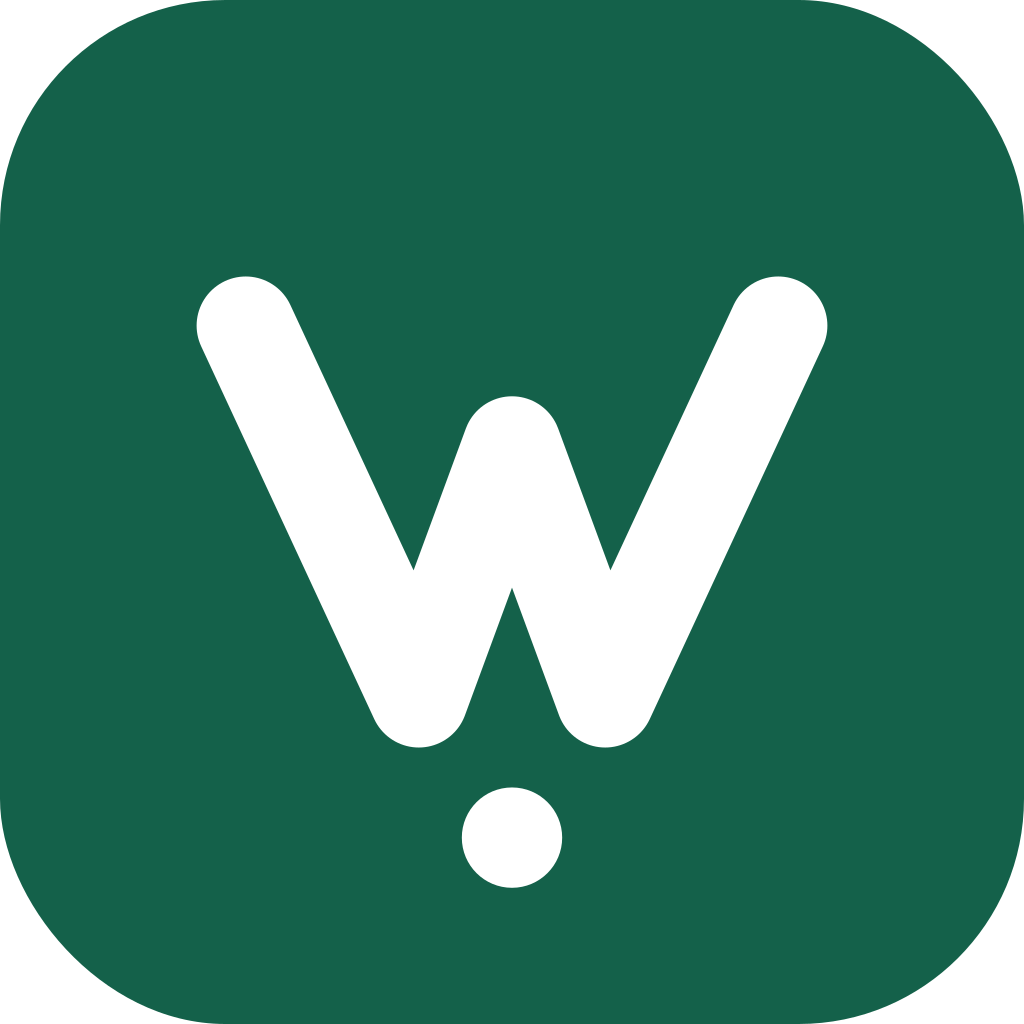
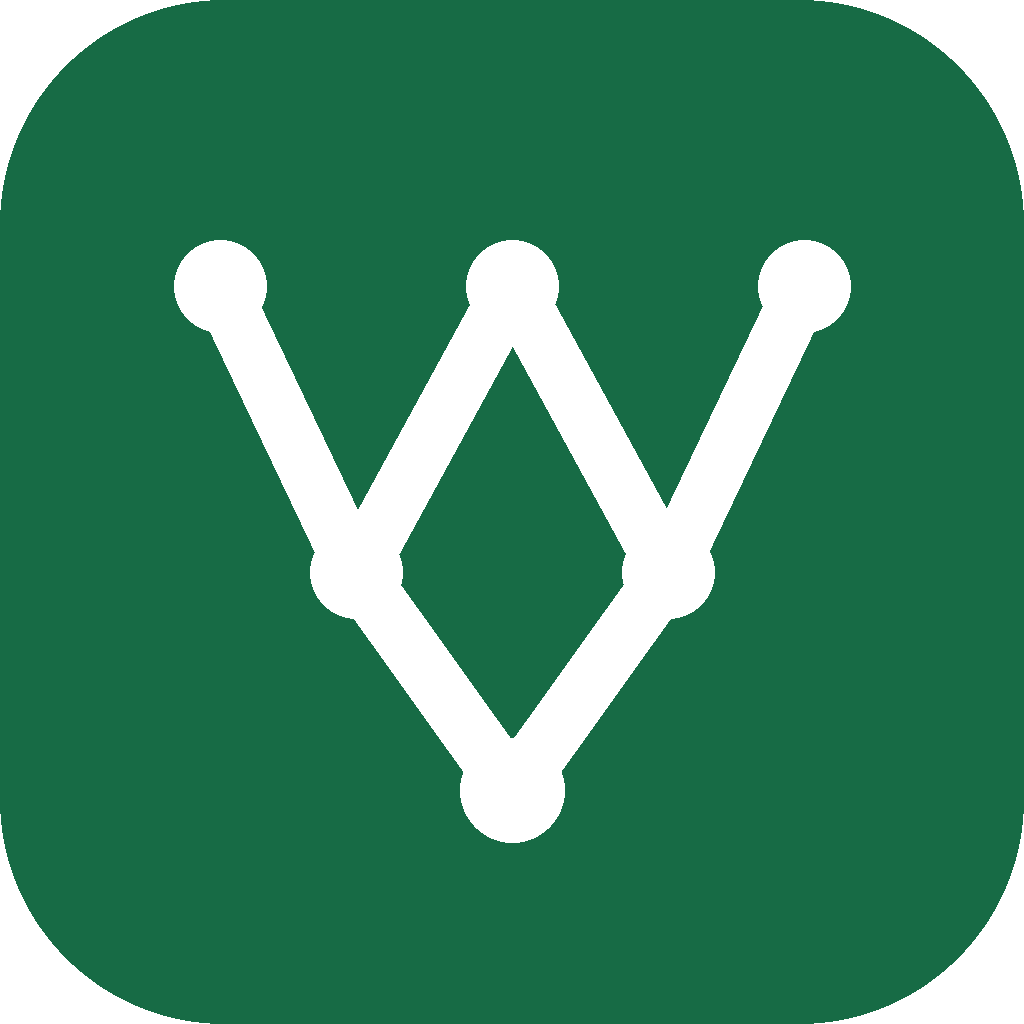
Remake the Rootwork identity and opening

diff --git a/styles.css b/styles.css
@@ -64,8 +64,11 @@ svg { display: block; flex: none; }
 @keyframes toast-in { from { opacity: 0; transform: translate(-50%, 8px); } to { opacity: 1; transform: translate(-50%, 0); } }
 @keyframes check-pop { 0% { transform: scale(.78); } 62% { transform: scale(1.12); } 100% { transform: scale(1); } }
 @keyframes xp-sweep { from { transform: translateX(-120%); } to { transform: translateX(360%); } }
-@keyframes launch-mark-in { from { opacity: 0; transform: scale(.82); } to { opacity: 1; transform: scale(1); } }
-@keyframes launch-name-in { from { opacity: 0; transform: translateY(8px); letter-spacing: .8px; } to { opacity: 1; transform: none; letter-spacing: -.7px; } }
+@keyframes launch-line-draw { from { stroke-dashoffset: 1; } to { stroke-dashoffset: 0; } }
+@keyframes launch-node-in { 0% { opacity: 0; transform: scale(.25); } 70% { opacity: 1; transform: scale(1.12); } 100% { opacity: 1; transform: scale(1); } }
+@keyframes launch-pulse { 0% { opacity: 0; transform: scale(.72); } 35% { opacity: .55; } 100% { opacity: 0; transform: scale(1.18); } }
+@keyframes launch-word-in { from { opacity: 0; transform: translateY(7px); letter-spacing: .4px; } to { opacity: 1; transform: none; letter-spacing: -.75px; } }
+@keyframes launch-subtitle-in { from { opacity: 0; transform: translateY(5px); } to { opacity: 1; transform: none; } }
 
 .app-shell {
   width: min(720px, 100%);
@@ -86,18 +89,66 @@ svg { display: block; flex: none; }
   z-index: 220;
   inset: 0;
   min-height: 100dvh;
-  background: #fff;
+  background: rgba(255, 255, 255, 1);
   display: grid;
   place-items: center;
   overflow: hidden;
-  transform: translateY(0);
-  transition: transform .6s cubic-bezier(.76, 0, .24, 1);
+  opacity: 1;
+  backdrop-filter: blur(12px);
+  -webkit-backdrop-filter: blur(12px);
+  transition: opacity .5s var(--ease), background-color .5s var(--ease), backdrop-filter .5s var(--ease);
 }
-.launch-lockup { display: grid; justify-items: center; gap: 13px; transition: opacity .28s ease, transform .4s var(--ease); }
-.launch-mark { width: 66px; height: 66px; border-radius: 17px; animation: launch-mark-in .42s var(--ease) both; }
-.launch-lockup strong { color: var(--green); font-size: 25px; line-height: 1; letter-spacing: -.7px; animation: launch-name-in .45s .1s var(--ease) both; }
-.launch-screen.exit { transform: translateY(-100%); }
-.launch-screen.exit .launch-lockup { opacity: 0; transform: translateY(-28px) scale(.96); }
+.launch-lockup { display: grid; justify-items: center; transition: opacity .35s ease, transform .5s var(--ease); }
+.launch-symbol { width: 126px; height: 104px; overflow: visible; }
+.launch-lines path {
+  fill: none;
+  stroke: var(--green);
+  stroke-width: 7;
+  stroke-linecap: round;
+  stroke-linejoin: round;
+  stroke-dasharray: 1;
+  stroke-dashoffset: 1;
+  animation: launch-line-draw .34s var(--launch-delay) var(--ease) both;
+}
+.launch-nodes circle {
+  fill: var(--green);
+  opacity: 0;
+  transform-box: fill-box;
+  transform-origin: center;
+  animation: launch-node-in .24s var(--launch-delay) var(--ease) both;
+}
+.launch-pulse {
+  fill: none;
+  stroke: var(--green-soft);
+  stroke-width: 2;
+  opacity: 0;
+  transform-box: fill-box;
+  transform-origin: center;
+  animation: launch-pulse .62s 1.08s var(--ease) both;
+}
+.launch-wordmark {
+  margin-top: 12px;
+  color: var(--green-deep);
+  font-size: 27px;
+  font-weight: 850;
+  line-height: 1;
+  letter-spacing: -.75px;
+  opacity: 0;
+  animation: launch-word-in .34s 1.04s var(--ease) both;
+}
+.launch-subtitle {
+  margin-top: 9px;
+  color: var(--muted);
+  font-size: 10px;
+  font-weight: 600;
+  letter-spacing: .05px;
+  opacity: 0;
+  animation: launch-subtitle-in .32s 1.28s var(--ease) both;
+}
+.launch-static-mark { width: 126px; height: 104px; }
+.launch-static .launch-wordmark { opacity: 1; animation: none; }
+.launch-screen.exit { opacity: 0; background: rgba(255, 255, 255, 0); backdrop-filter: blur(0); -webkit-backdrop-filter: blur(0); pointer-events: none; }
+.launch-screen.exit .launch-lockup { opacity: 0; transform: translateY(-9px) scale(1.015); }
 
 .wordmark { color: var(--green); font-size: 16px; font-weight: 850; letter-spacing: -.55px; }
 .app-topbar {

diff --git a/app.js b/app.js
@@ -204,14 +204,52 @@
   }
 
   function BrandMark() {
-    return h('strong', { className: 'wordmark' }, 'Rootwork');
+    return h('strong', { className: 'wordmark' }, 'rootwork');
+  }
+
+  function LaunchLogo() {
+    var lines = [
+      ['M80 112 52 70', 260],
+      ['M80 112 108 70', 350],
+      ['M52 70 24 22', 560],
+      ['M52 70 80 22', 650],
+      ['M108 70 80 22', 740],
+      ['M108 70 136 22', 830]
+    ];
+    var nodes = [
+      [80, 112, 8, 130],
+      [52, 70, 7, 500],
+      [108, 70, 7, 580],
+      [24, 22, 7, 940],
+      [80, 22, 7, 1020],
+      [136, 22, 7, 1100]
+    ];
+    return h('svg', {
+      className: 'launch-symbol', viewBox: '0 0 160 132', 'aria-hidden': 'true'
+    },
+      h('circle', { className: 'launch-pulse', cx: 80, cy: 66, r: 58 }),
+      h('g', { className: 'launch-lines' }, lines.map(function (line, index) {
+        return h('path', {
+          key: 'line-' + index,
+          d: line[0], pathLength: 1,
+          style: { '--launch-delay': line[1] + 'ms' }
+        });
+      })),
+      h('g', { className: 'launch-nodes' }, nodes.map(function (node, index) {
+        return h('circle', {
+          key: 'node-' + index,
+          cx: node[0], cy: node[1], r: node[2],
+          style: { '--launch-delay': node[3] + 'ms' }
+        });
+      })));
   }
 
   function LaunchScreen(props) {
     return h('main', { className: 'launch-screen ' + (props.phase || 'show') },
-      h('div', { className: 'launch-lockup' },
-        h('img', { src: 'icon-192.png', alt: '', className: 'launch-mark' }),
-        h('strong', null, 'Rootwork')));
+      h('div', { className: 'launch-lockup', role: 'img', 'aria-label': 'Rootwork' },
+        h(LaunchLogo),
+        h('strong', { className: 'launch-wordmark' }, 'rootwork'),
+        h('span', { className: 'launch-subtitle' }, t('Turn effort into progress.', 'Biến nỗ lực thành tiến bộ.'))));
   }
 
   function AppTopbar(props) {
@@ -287,8 +325,8 @@
       setLaunchPhase('show');
       var reducedMotion = global.matchMedia && global.matchMedia('(prefers-reduced-motion: reduce)').matches;
       launchTimers.current = [
-        setTimeout(function () { setLaunchPhase('exit'); }, reducedMotion ? 80 : 700),
-        setTimeout(function () { setLaunchPhase('done'); }, reducedMotion ? 140 : 1300)
+        setTimeout(function () { setLaunchPhase('exit'); }, reducedMotion ? 80 : 1900),
+        setTimeout(function () { setLaunchPhase('done'); }, reducedMotion ? 140 : 2450)
       ];
     }
 

diff --git a/index.html b/index.html
@@ -20,9 +20,9 @@
 <body>
   <div id="root">
     <main class="launch-screen show">
-      <div class="launch-lockup">
-        <img src="icon-192.png" alt="" class="launch-mark" />
-        <strong>Rootwork</strong>
+      <div class="launch-lockup launch-static" role="img" aria-label="Rootwork">
+        <img src="brand/rootwork-symbol.svg" alt="" class="launch-static-mark" />
+        <strong class="launch-wordmark">rootwork</strong>
       </div>
     </main>
   </div>

diff --git a/sw.js b/sw.js
@@ -1,5 +1,5 @@
 /* Rootwork V2 — local-first PWA shell. */
-var CACHE = 'rootwork-v2-2026-08-24-10';
+var CACHE = 'rootwork-v2-2026-08-24-11';
 var ASSETS = [
   './',
   './index.html',
@@ -11,6 +11,7 @@ var ASSETS = [
   './vendor/react.production.min.js',
   './vendor/react-dom.production.min.js',
   './brand/rootwork-mark.svg',
+  './brand/rootwork-symbol.svg',
   './icon-180.png',
   './icon-192.png',
   './icon-256.png',

diff --git a/make_icons.py b/make_icons.py
@@ -1,19 +1,50 @@
-# Regenerate Rootwork PWA icons from the square 1024px master.
+# Regenerate Rootwork logo rasters and PWA icons from the canonical geometry.
 from pathlib import Path
-from PIL import Image
+from PIL import Image, ImageDraw
 
 ROOT = Path(__file__).resolve().parent
 MASTER = ROOT / "brand" / "rootwork-mark-1024.png"
 SIZES = (180, 192, 256, 512, 1024)
+GREEN = "#176B45"
+WHITE = "#FFFFFF"
 
-if not MASTER.exists():
-    raise SystemExit(f"Missing master: {MASTER}")
+POINTS = {
+    "top_left": (220, 286),
+    "top_center": (512, 286),
+    "top_right": (804, 286),
+    "left": (356, 572),
+    "right": (668, 572),
+    "root": (512, 790),
+}
 
-img = Image.open(MASTER).convert("RGBA")
+
+def draw_symbol(draw, color, line_width=58, node_radius=46, root_radius=52):
+    paths = (
+        (POINTS["root"], POINTS["left"], POINTS["top_left"]),
+        (POINTS["left"], POINTS["top_center"]),
+        (POINTS["root"], POINTS["right"], POINTS["top_center"]),
+        (POINTS["right"], POINTS["top_right"]),
+    )
+    for path in paths:
+        draw.line(path, fill=color, width=line_width, joint="curve")
+    for name, point in POINTS.items():
+        radius = root_radius if name == "root" else node_radius
+        x, y = point
+        draw.ellipse((x - radius, y - radius, x + radius, y + radius), fill=color)
+
+
+master = Image.new("RGBA", (1024, 1024), (0, 0, 0, 0))
+master_draw = ImageDraw.Draw(master)
+master_draw.rounded_rectangle((0, 0, 1023, 1023), radius=224, fill=GREEN)
+draw_symbol(master_draw, WHITE)
+master.save(MASTER, optimize=True)
+
 for size in SIZES:
     dst = ROOT / f"icon-{size}.png"
-    img.resize((size, size), Image.Resampling.LANCZOS).save(dst, optimize=True)
+    master.resize((size, size), Image.Resampling.LANCZOS).save(dst, optimize=True)
     print("wrote", dst.name)
 
-img.resize((512, 512), Image.Resampling.LANCZOS).save(ROOT / "brand" / "rootwork-symbol.png", optimize=True)
+symbol = Image.new("RGBA", (1024, 1024), (0, 0, 0, 0))
+draw_symbol(ImageDraw.Draw(symbol), GREEN)
+symbol.resize((512, 512), Image.Resampling.LANCZOS).save(ROOT / "brand" / "rootwork-symbol.png", optimize=True)
 print("done")

diff --git a/BRAND_SPEC.md b/BRAND_SPEC.md
@@ -28,8 +28,8 @@ All interface colors are declared once in styles.css.
 | --danger | #A64239 | destructive/overdue state |
 | --warning | #8A641D | stalled/attention state |
 
-The app mark retains the established solid #14614A field for icon continuity.
-This is a brand asset color, not an additional interface accent.
+The app mark uses the same #176B45 primary green as the interface so the
+installed icon, launch sequence, and product state feel continuous.
 
 ## Typography
 
@@ -40,15 +40,18 @@ consistently offline.
 
 ## Mark
 
-brand/rootwork-mark.svg is the source vector:
+`brand/rootwork-mark.svg` is the square app-mark source and
+`brand/rootwork-symbol.svg` is the transparent symbol source:
 
-- viewBox 0 0 1000 1000;
-- solid green rounded-square field;
-- white single-stroke W/root form and anchor dot;
-- no gradient, glow, shadow, or alternate fill treatment;
+- one bottom root node grows into two structural junctions;
+- the junctions resolve into three upper target nodes;
+- the complete geometry reads as both a progression tree and a W;
+- the symbol remains one color with round joins and no decorative detail;
+- the app mark uses a solid green rounded-square field and white geometry;
 - all meaningful geometry remains safe inside circular Android masks.
 
-The existing generated PNG sizes remain the PWA icon set.
+`make_icons.py` owns the matching raster geometry and regenerates the 180,
+192, 256, 512, and 1024 px PWA icons plus transparent symbol PNG.
 
 ## Shape and spacing
 
@@ -62,6 +65,13 @@ The existing generated PNG sizes remain the PWA icon set.
 
 Motion communicates progression:
 
+- every app entry begins on white with the root node;
+- lines grow upward from the root before their destination nodes resolve;
+- a single pale ring acknowledges the complete structure without glow;
+- the lowercase wordmark appears after the symbol;
+- the localized subtitle follows: “Turn effort into progress.” / “Biến nỗ
+  lực thành tiến bộ.”;
+- the white layer fades away to reveal current context in about 2.4 seconds;
 - the week root resolves first;
 - the trunk and target connectors draw downward;
 - target nodes appear after connectors;

diff --git a/README.md b/README.md
@@ -42,6 +42,11 @@ week with no carried targets, Rootwork leads into a focused
 builder state rather than an empty dashboard. The dashboard appears only after
 the user creates a target or action.
 
+The opening builds the Rootwork mark from its bottom root node into the full
+progression-tree W, then reveals the wordmark and localized subtitle before a
+soft transition into current context. Vector masters live in `brand/`; the PWA
+icon set is generated from the same geometry.
+
 ## Code boundaries
 
 ~~~text
